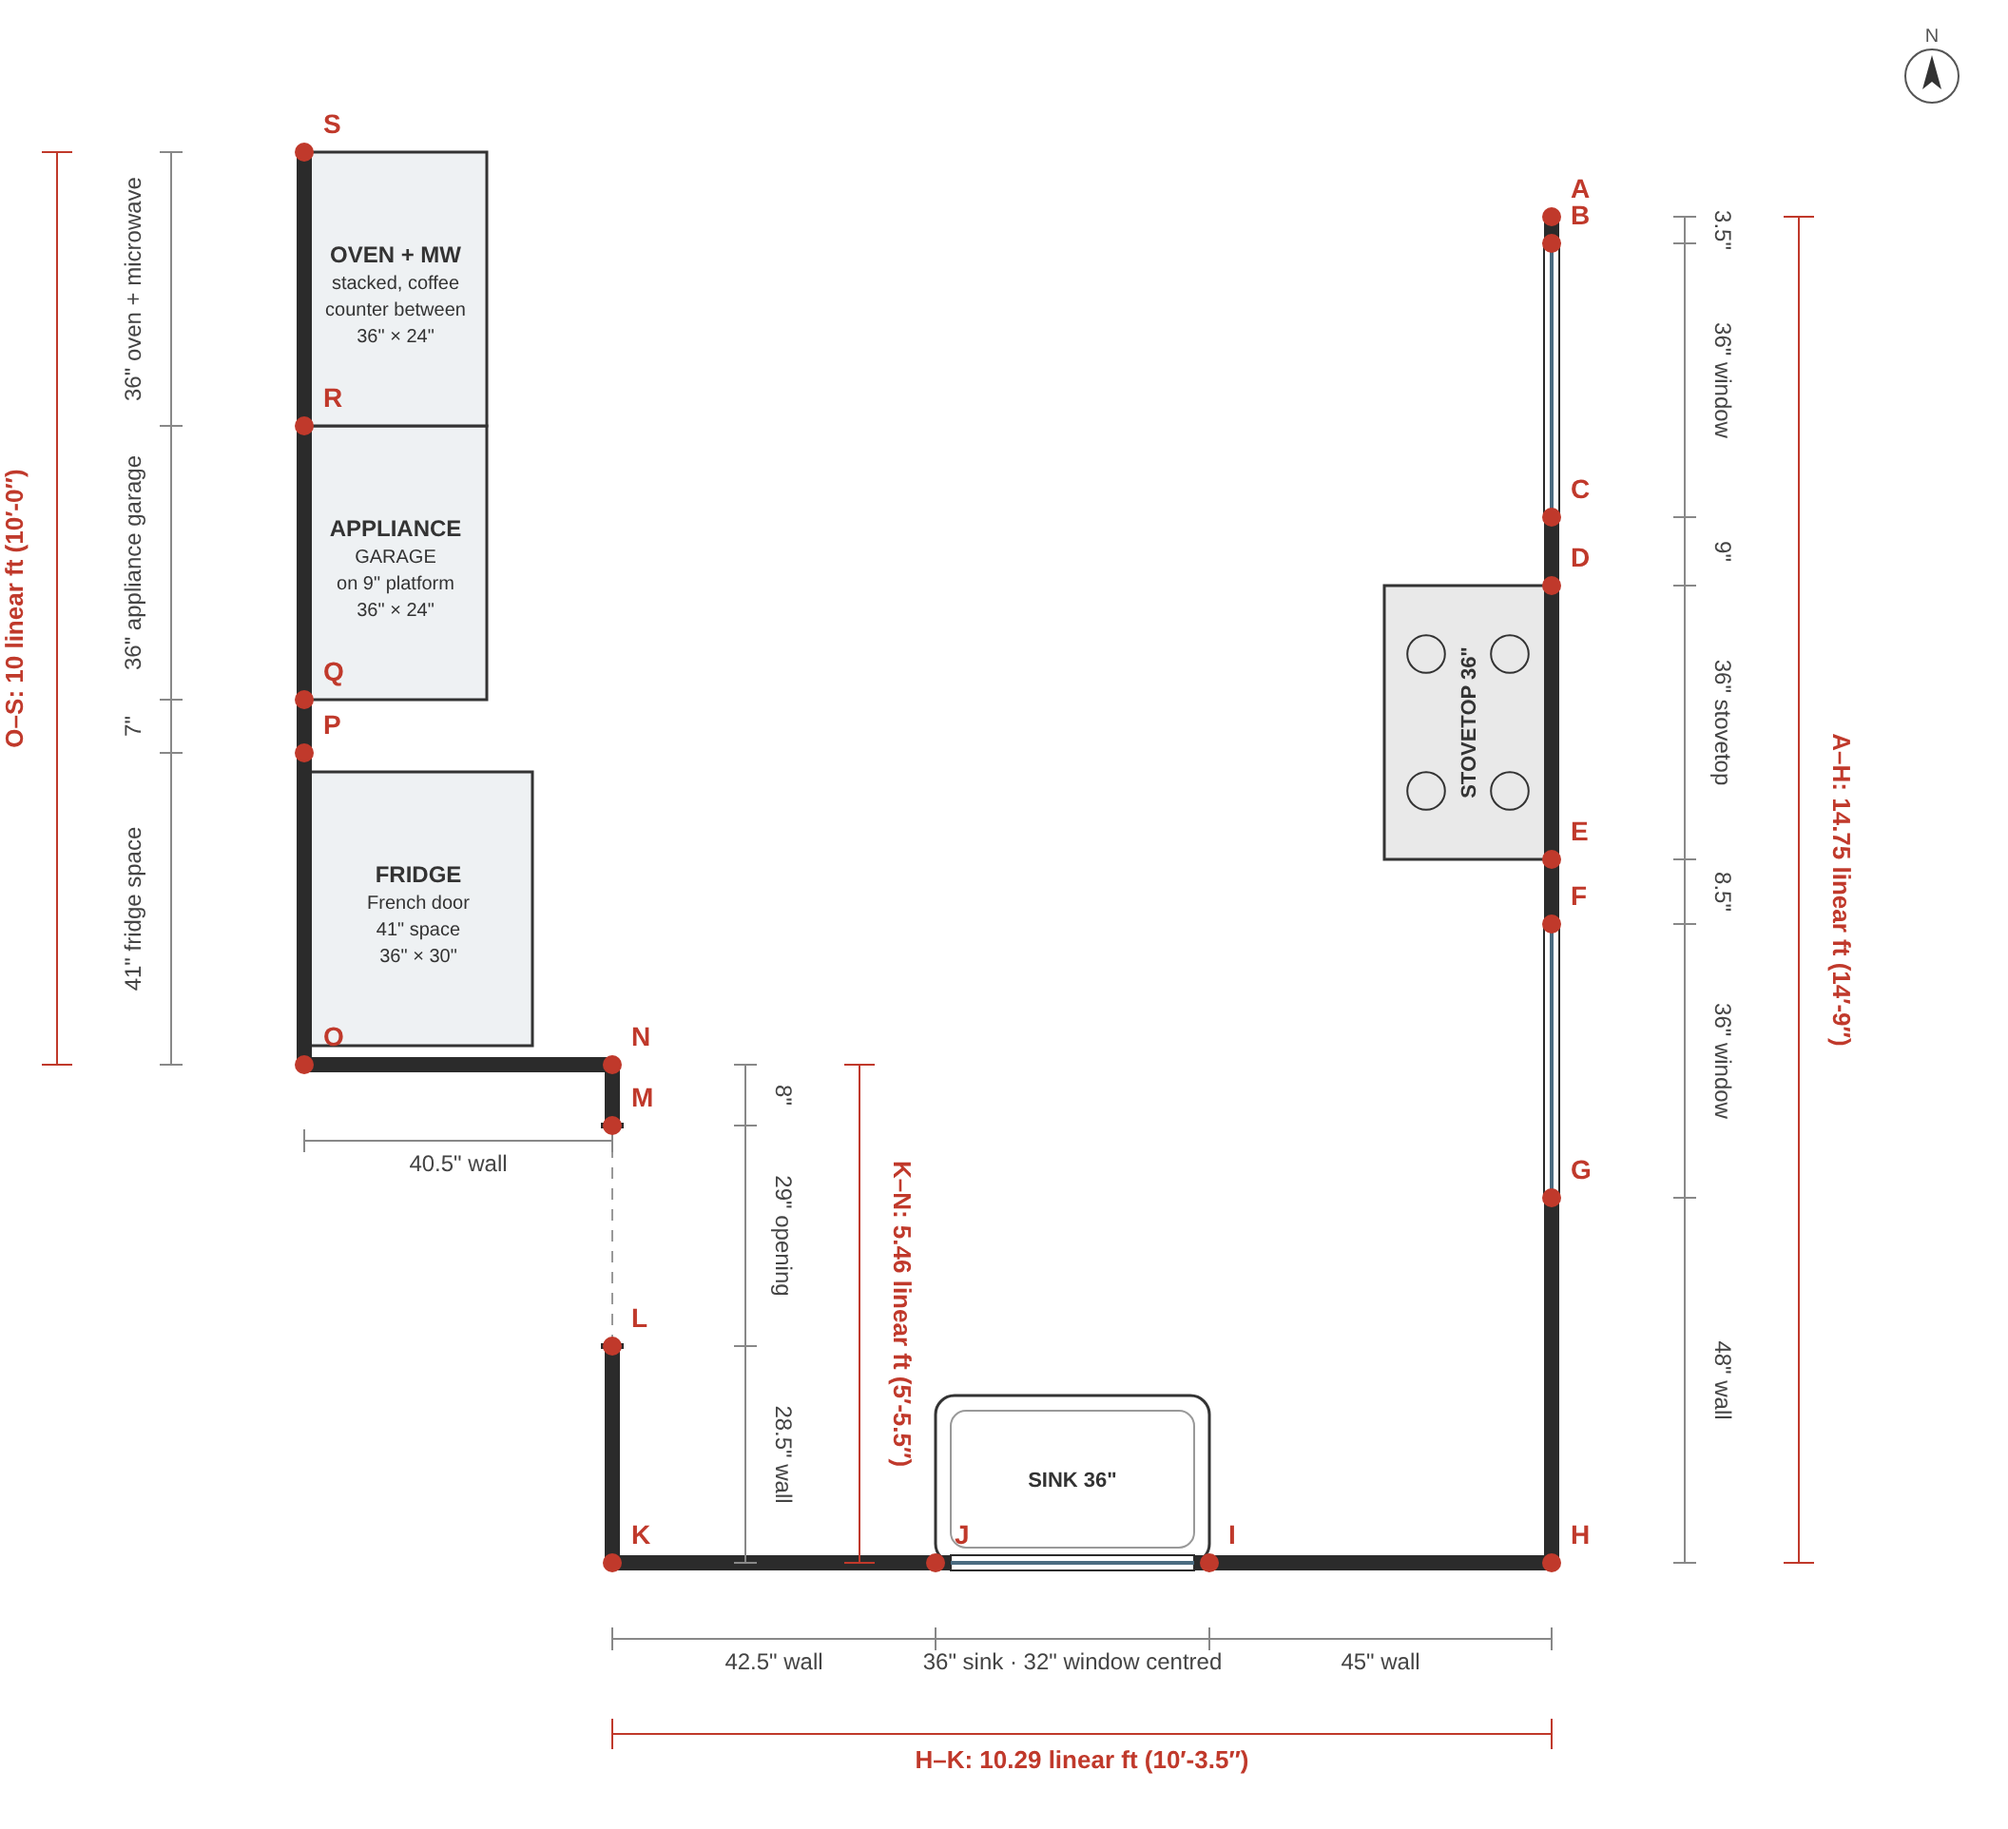
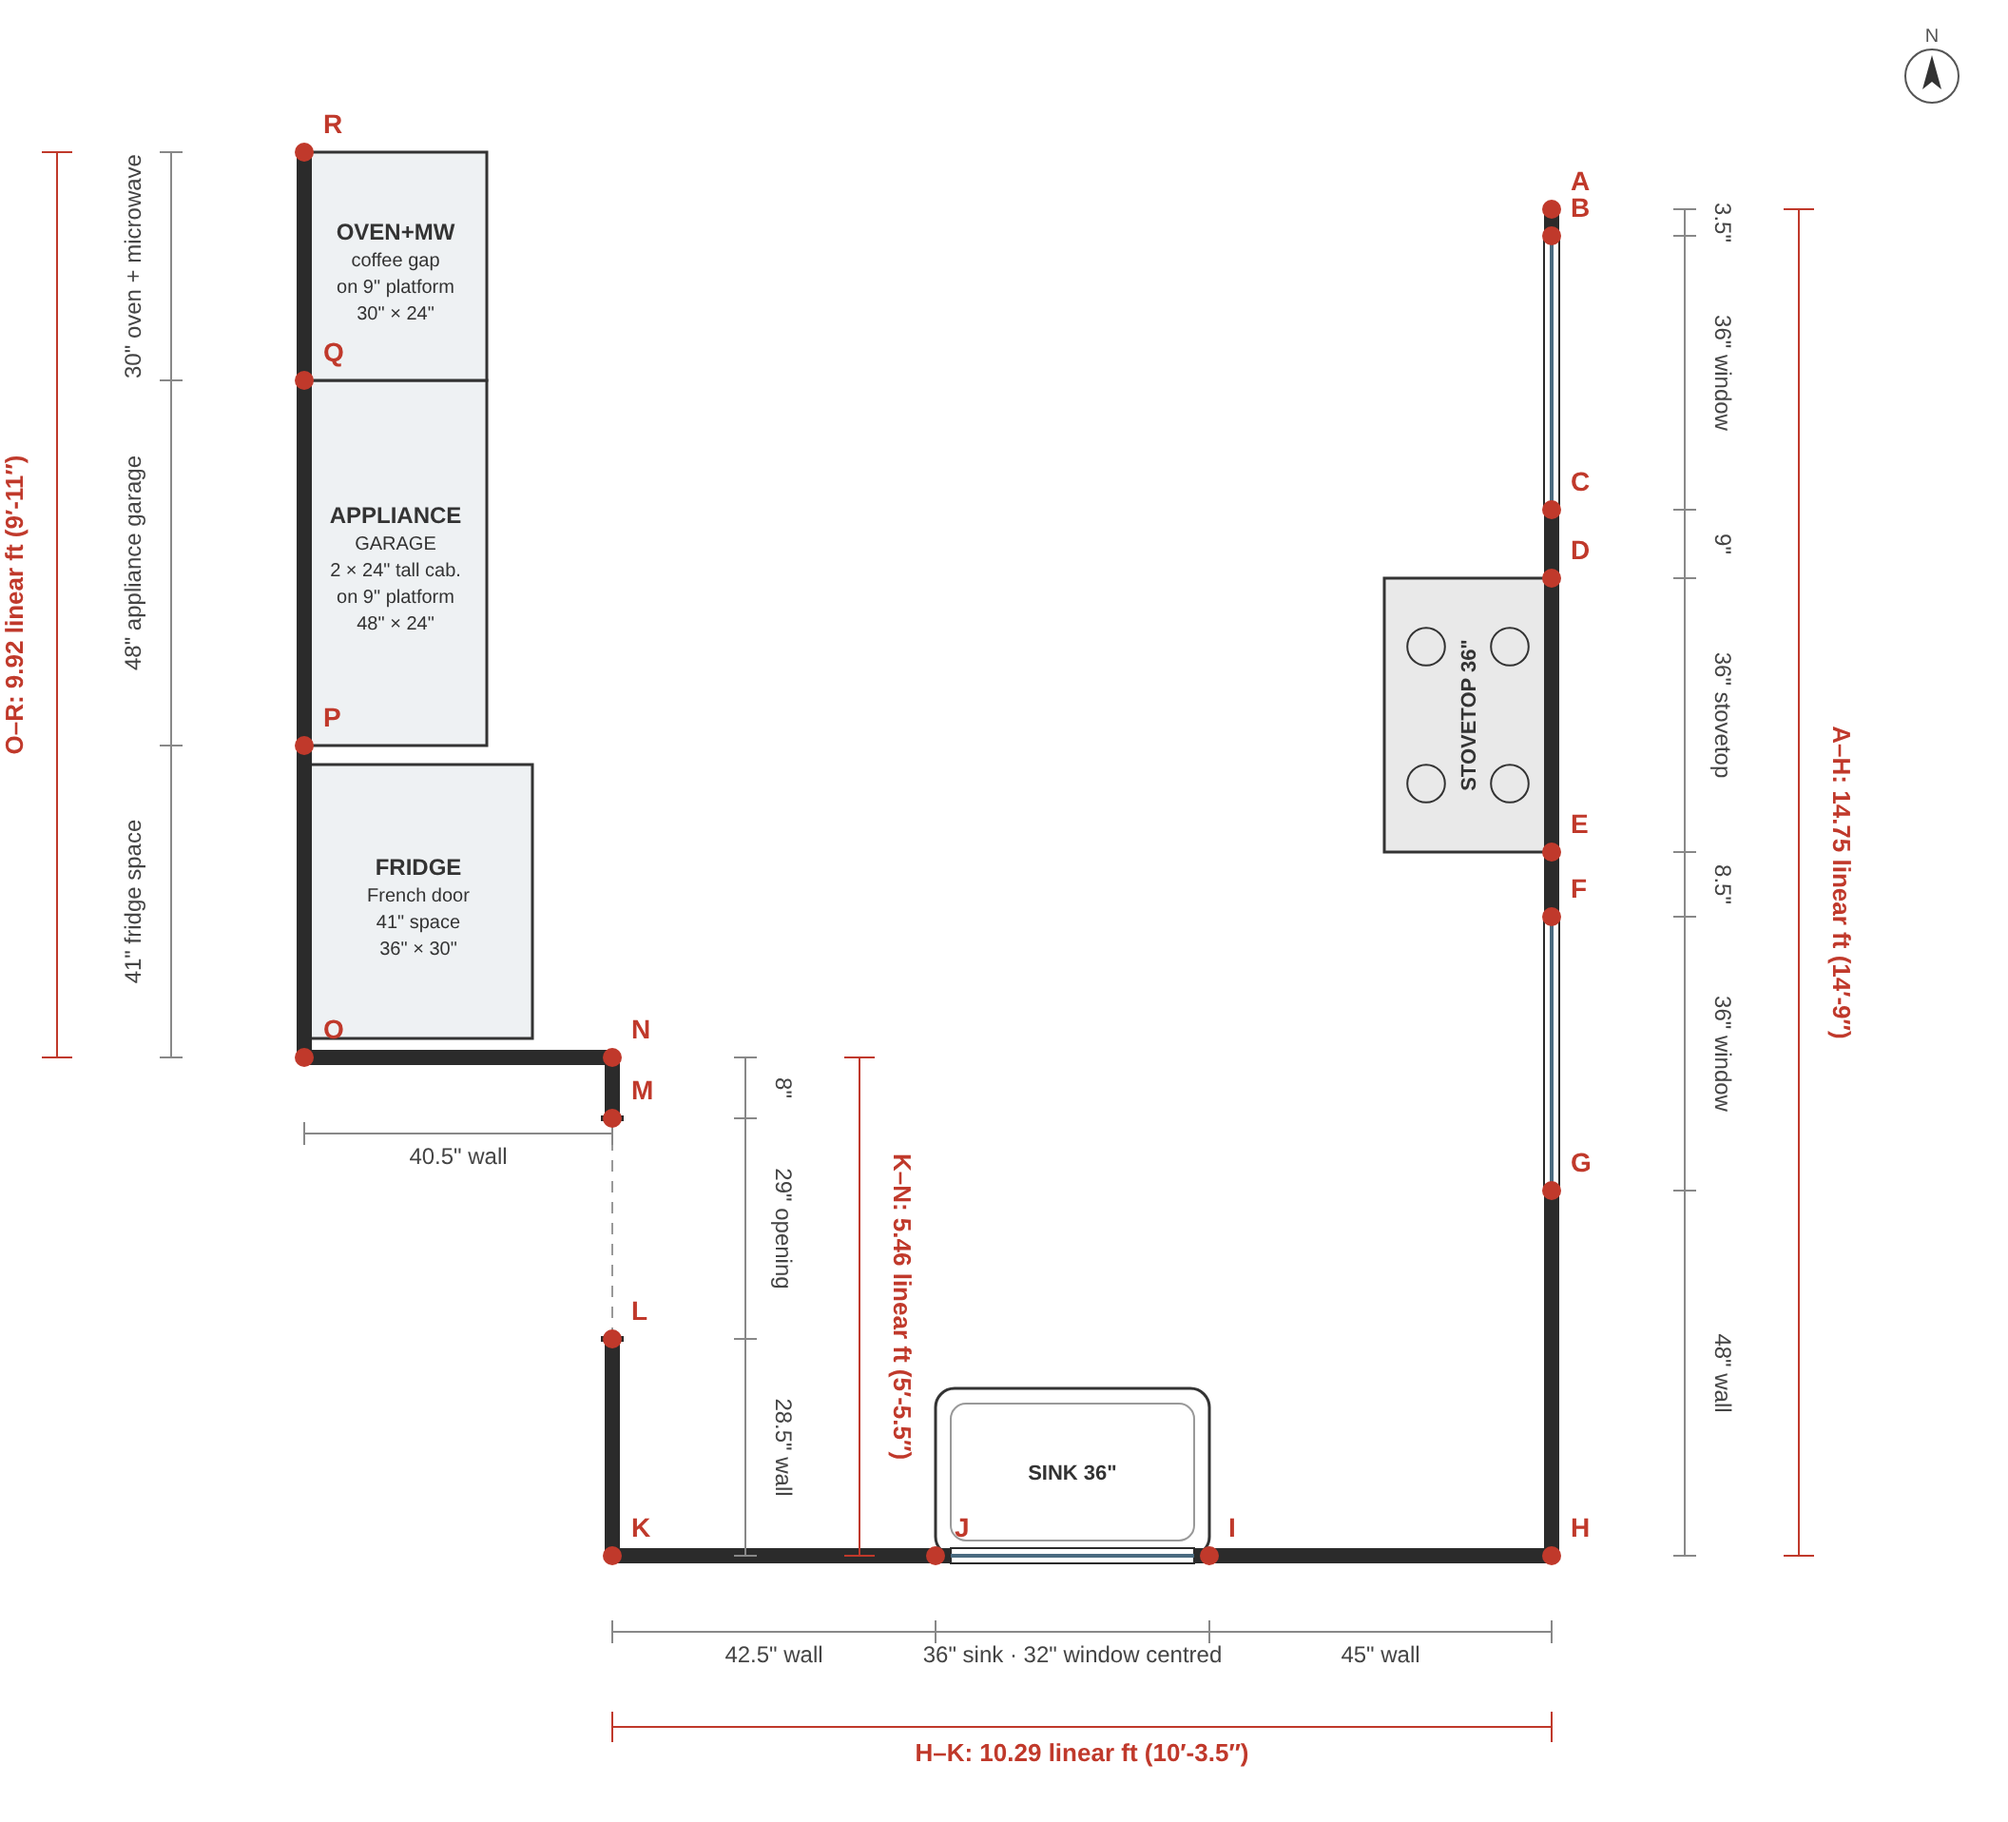
Floor plan: west wall P-Q 48in appliance garage, Q-R 30in oven/coffee/microwave stack on 9in platform
Claude-Session: https://claude.ai/code/session_01N1gJVqnW36KpNULQpj6QJQ

diff --git a/floorplans/build_floorplan.py b/floorplans/build_floorplan.py
@@ -29,9 +29,8 @@ SEGMENTS = [
     ("N", 8, "wall", "N"),
     ("W", 40.5, "wall", "O"),
     ("N", 41, "wall:fridge space", "P"),
-    ("N", 7, "wall", "Q"),
-    ("N", 36, "wall:appliance garage", "R"),
-    ("N", 36, "wall:oven + microwave", "S"),
+    ("N", 48, "wall:appliance garage", "Q"),
+    ("N", 30, "wall:oven + microwave", "R"),
 ]
 
 # Force dimension side for walls whose outside is cluttered, keyed by segment end label
@@ -44,7 +43,7 @@ SPANS = [("I", "J", '36" sink · 32" window centred')]
 LABELS = {"opening": "walkway opening"}
 MARGIN = 80
 # Overall run dimensions drawn outside the segment dimensions: (from label, to label)
-TOTALS = [("A", "H"), ("H", "K"), ("K", "N"), ("O", "S")]
+TOTALS = [("A", "H"), ("H", "K"), ("K", "N"), ("O", "R")]
 
 # Countertops along walls: (points along the wall, depth in inches)
 # Points may be a label or an (x, y) position in inches.
@@ -59,8 +58,8 @@ COUNTERS = []
 # Centred on the wall segment between the two points, projecting into the room.
 APPLIANCES = [
     ("FRIDGE", "P", "O", 36, 30, "French door", '41" space'),
-    ("APPLIANCE", "R", "Q", 36, 24, "GARAGE", "on 9\" platform"),
-    ("OVEN + MW", "S", "R", 36, 24, "stacked, coffee", "counter between"),
+    ("APPLIANCE", "Q", "P", 48, 24, "GARAGE", "2 × 24\" tall cab.", "on 9\" platform"),
+    ("OVEN+MW", "R", "Q", 30, 24, "coffee gap", "on 9\" platform"),
 ]
 
 # Design constraints: segments (by end points) that must never be a window.
@@ -375,15 +374,19 @@ ELEVATIONS = [
      ["A", "B", "C", "D", "E", "F", "G", "H"], 96, 96),
     ("south_elevation.svg", "South wall elevation (H–K), viewed from inside facing south",
      ["H", "I", "_w1", "_w2", "J", "K"], 96, 100),
-    ("west_elevation.svg", "West wall elevation (K–S), viewed from inside facing west",
-     ["K", "L", "M", "N", "O", "P", "Q", "R", "S"], 100, 100,
-     {"project": True,  # N-O is a return wall: O-S sits 40.5" further west
-      "platforms": [("P", "S", 9, "raised floor (wooden box) 9\"")],
+    ("west_elevation.svg", "West wall elevation (K–R), viewed from inside facing west",
+     ["K", "L", "M", "N", "O", "P", "Q", "R"], 100, 100,
+     {"project": True,  # N-O is a return wall: O-R sits 40.5" further west
+      "platforms": [("P", "R", 9, "9\" raised box (on 11\" concrete step), 24\" deep")],
       "openings": {"M": 80},  # opening height assumed
       "zones": [("O", "P", 0, 70, "FRIDGE (French door)", '41" space · height approx.'),
-                ("Q", "R", 9, 100, "APPLIANCE GARAGE", "36\" (could take 12\" from R–S)"),
-                ("R", "S", 9, 100, "OVEN + MICROWAVE", "stacked, coffee counter between")]}),
-]
+                ("P", "Q", 9, 99, "APPLIANCE GARAGE", "2 × 24\"W × 24\"D × 90\"H tall cabinets"),
+                ("Q", "R", 9, 21, "DRAWER", "12\""),
+                ("Q", "R", 21, 36, "CONV. OVEN", "on pull-out shelf"),
+                ("Q", "R", 36, 37, "", ""),
+                ("Q", "R", 37, 55, "COFFEE", "counter at 37\""),
+                ("Q", "R", 55, 70, "MICROWAVE", "bottom at 55\""),
+                ("Q", "R", 70, 99, "STORAGE", "doors")]}),]
 
 
 def build_elevation(filename, title, labels, ceil0, ceil1, opts=None):
